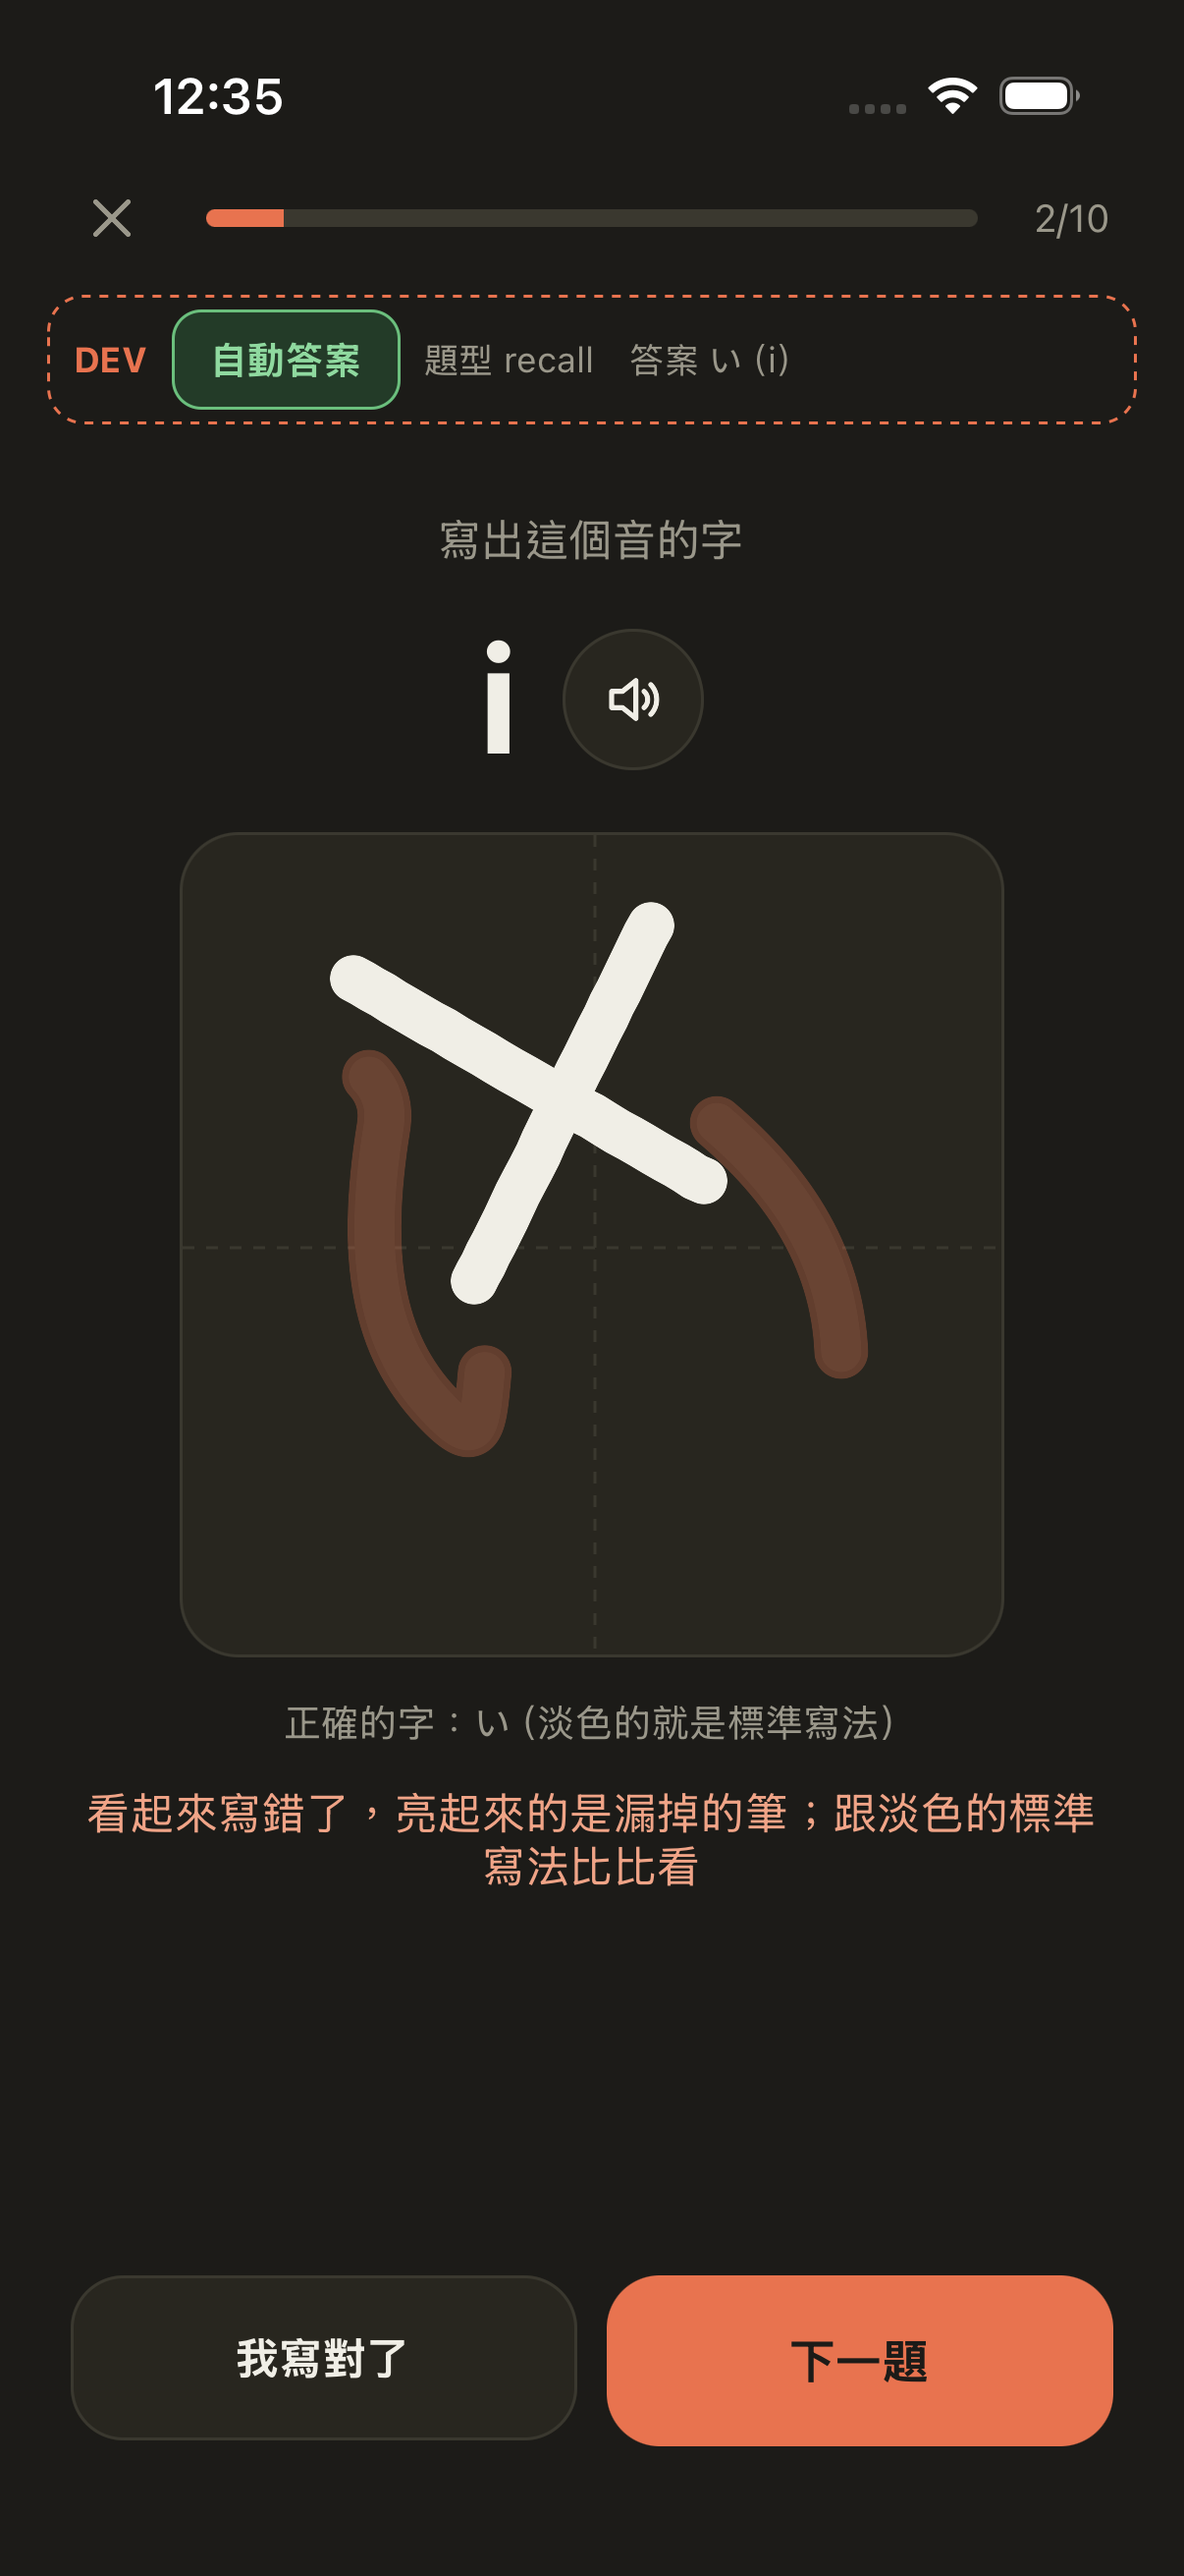
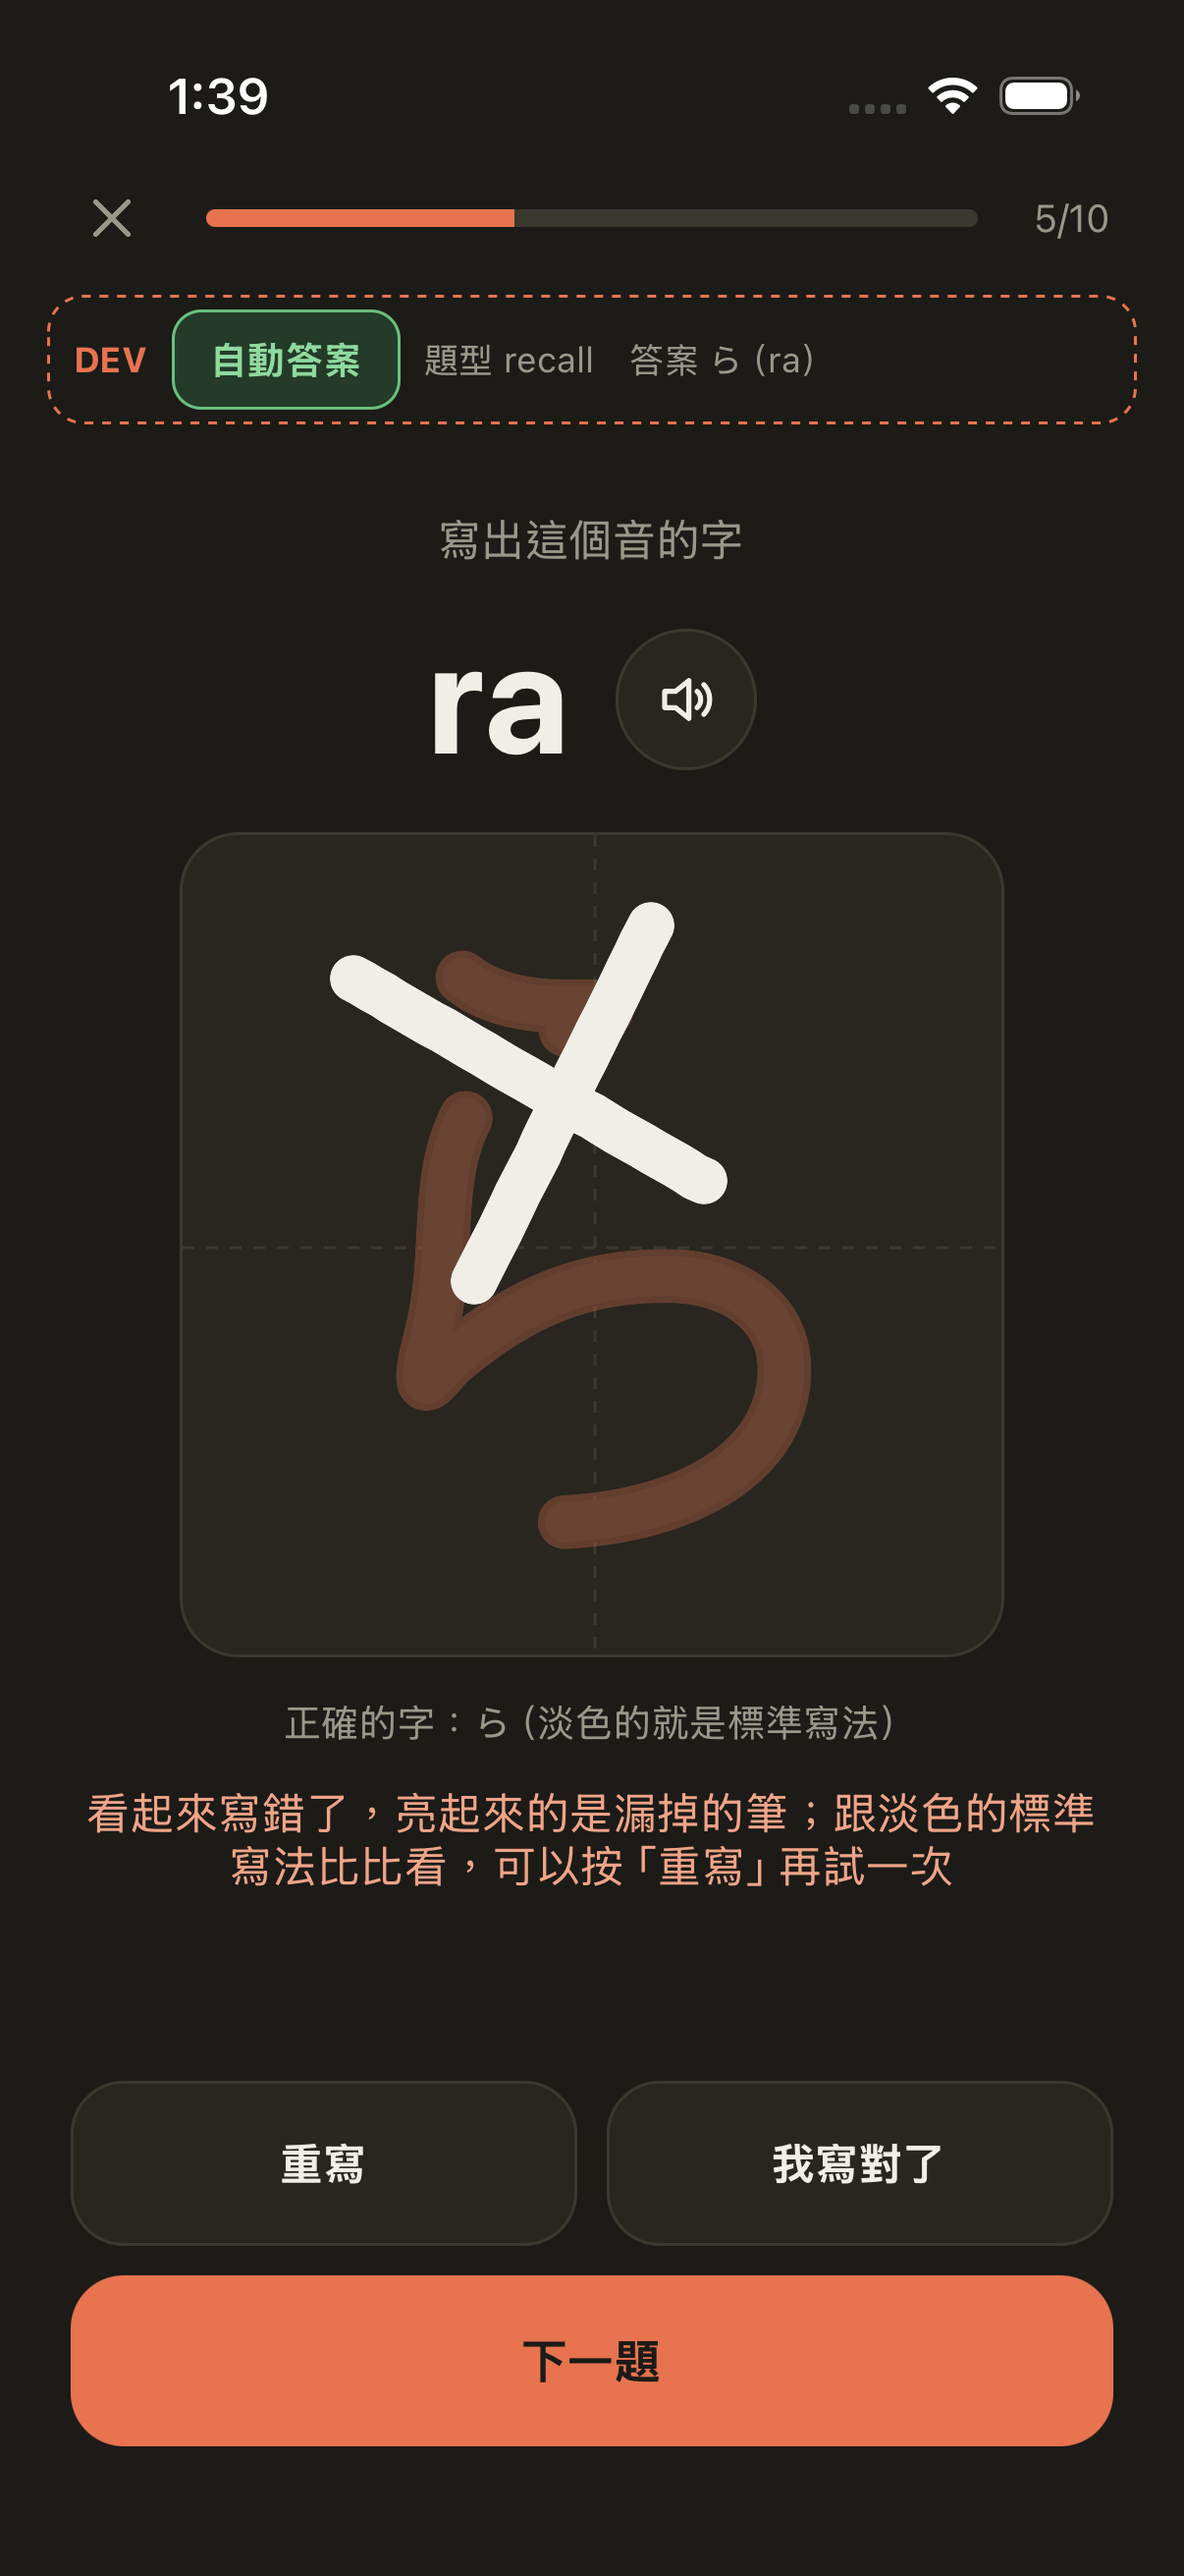
fix: 默寫判完也能重寫（判錯不再是死路）

diff --git a/src/components/QuizRecall.tsx b/src/components/QuizRecall.tsx
@@ -55,6 +55,16 @@ export function QuizRecall({ question, onAnswered, onNext, isLast }: QuizRecallP
     setFlipped(true);
   };
 
+  // 翻面之後也能重寫：清掉畫布、回到還沒翻面的狀態（還沒按「下一題」之前都不記分）
+  const retry = () => {
+    if (rated !== null) return;
+    strokesRef.current = [];
+    setJudgement(null);
+    setFinalOk(null);
+    setFlipped(false);
+    setCanvasKey((k) => k + 1);
+  };
+
   const rate = (ok: boolean) => {
     if (rated !== null) return;
     setRated(ok);
@@ -119,7 +129,7 @@ export function QuizRecall({ question, onAnswered, onNext, isLast }: QuizRecallP
                   ? '看起來寫對了（跟標準寫法比對）'
                   : '已改成寫對了'
                 : judgement.verdict === 'wrong'
-                  ? '看起來寫錯了，亮起來的是漏掉的筆；跟淡色的標準寫法比比看'
+                  ? '看起來寫錯了，亮起來的是漏掉的筆；跟淡色的標準寫法比比看，可以按「重寫」再試一次'
                   : '已改成沒寫對'}
             </Text>
           ) : null}
@@ -153,33 +163,39 @@ export function QuizRecall({ question, onAnswered, onNext, isLast }: QuizRecallP
             </View>
           </View>
         ) : judgement && judgement.verdict !== 'none' && finalOk !== null ? (
-          // 有寫字：App 已經比對過，這裡確認結果（判斷不準可以改）再下一題
-          <View style={styles.rate}>
-            <View style={styles.flex}>
-              <SecondaryButton
-                testID="recall-override"
-                label={finalOk ? '其實沒寫對' : '我寫對了'}
-                onPress={() => setFinalOk(!finalOk)}
-              />
+          // 有寫字：App 已經比對過，這裡確認結果（判斷不準可以改、也可以重寫）再下一題
+          <View style={styles.stack}>
+            <View style={styles.rate}>
+              <View style={styles.flex}>
+                <SecondaryButton testID="recall-retry" label="重寫" onPress={retry} />
+              </View>
+              <View style={styles.flex}>
+                <SecondaryButton
+                  testID="recall-override"
+                  label={finalOk ? '其實沒寫對' : '我寫對了'}
+                  onPress={() => setFinalOk(!finalOk)}
+                />
+              </View>
             </View>
-            <View style={styles.flex}>
-              <PrimaryButton
-                testID="quiz-next"
-                label={isLast ? '完成，看結果' : '下一題'}
-                onPress={() => {
-                  rate(finalOk);
-                  onNext();
-                }}
-              />
-            </View>
+            <PrimaryButton
+              testID="quiz-next"
+              label={isLast ? '完成，看結果' : '下一題'}
+              onPress={() => {
+                rate(finalOk);
+                onNext();
+              }}
+            />
           </View>
         ) : (
-          <View style={styles.rate}>
-            <View style={styles.flex}>
-              <SecondaryButton testID="recall-no" label="沒寫出來" onPress={() => rate(false)} />
-            </View>
-            <View style={styles.flex}>
-              <PrimaryButton testID="recall-yes" label="我寫對了" onPress={() => rate(true)} />
+          <View style={styles.stack}>
+            <SecondaryButton testID="recall-retry" label="想再寫一次" onPress={retry} />
+            <View style={styles.rate}>
+              <View style={styles.flex}>
+                <SecondaryButton testID="recall-no" label="沒寫出來" onPress={() => rate(false)} />
+              </View>
+              <View style={styles.flex}>
+                <PrimaryButton testID="recall-yes" label="我寫對了" onPress={() => rate(true)} />
+              </View>
             </View>
           </View>
         )}
@@ -209,4 +225,5 @@ const styles = StyleSheet.create({
   feedback: { fontSize: 15, textAlign: 'center' },
   bottom: { paddingHorizontal: 24, paddingBottom: 44, paddingTop: 12 },
   rate: { flexDirection: 'row', gap: 10 },
+  stack: { gap: 10 },
 });

diff --git a/PROGRESS.md b/PROGRESS.md
@@ -549,3 +549,10 @@ LANG=en_US.UTF-8 LC_ALL=en_US.UTF-8 pnpm exec expo run:ios --configuration Relea
   - **默寫目標字沒有筆畫資料時會壞**：出題時只從有筆畫資料的字挑，挑不到改出看字選音。
 - 默寫比對的限制（測試列出來）：へ↔ヘ、そ↔る、コ↔ユ 在「兩個字都寫得很標準」時仍可能被判成同一個（へ↔ヘ 形狀本來就一樣；其餘整體誤判率 < 0.2%）。
 - Maestro：新增 `phase15-guards.yaml`（快速連點「下一題」兩次只前進一題）。
+
+## 默寫判完也能重寫（2026-11-01）
+
+- 使用者回報：默寫判成「寫錯」之後，畫面叫人「跟標準寫法比比看」，卻沒有重寫的按鈕，只能「我寫對了」或「下一題」，是設計上的死路。
+- 修正：翻面之後（不論判對、判錯、沒寫字直接翻面）都有「重寫」（沒寫字時叫「想再寫一次」）：清掉畫布、回到還沒翻面的狀態；按「下一題」之前不計分，所以重寫不影響複習排程。判錯的提示文字也多了「可以按「重寫」再試一次」。排版：上排「重寫」「我寫對了／其實沒寫對」，下面是「下一題」。
+- 檢查死路的原則：每個「結果／回饋」畫面都要想「使用者不同意或想再試一次時有沒有出口」。其他題型答完直接揭曉正解、沒有重試的需求，所以不加。
+- Maestro：`phase12-spot-error.yaml` 默寫段加入「判錯 → 重寫 → 回到翻面前（有翻面鈕、看不到正確字）→ 再寫 → 翻面 → 判錯」；截圖 `screenshots/ui-fixes/4-RecallFlipped-*` 已重拍（亮暗各一）。
